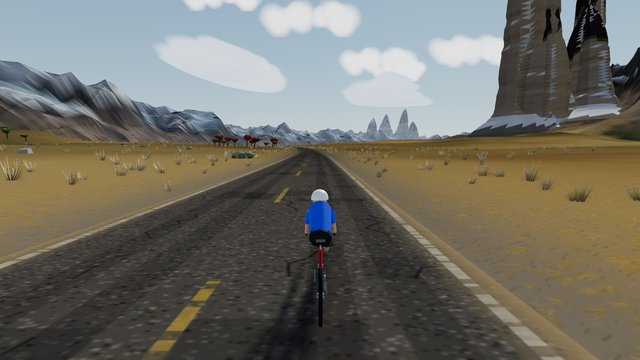
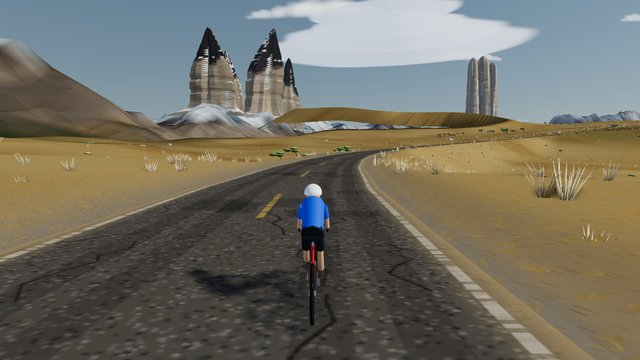
Patagonia polish: hero-scale towers, deeper sky, softer cumulus
Towers 1.4x taller and closer to the road with more groups all round, so
they fill the upper frame for most of the lap; deeper blue sky (lower sky
exposure, bluer haze, longer fog); flat-based, wind-stretched cumulus;
fewer horizontal snow bands (none on the block summit); refreshed thumbnail.

Claude-Session: https://claude.ai/code/session_01NjvqeRDDRuEg82aVLG5iD9

diff --git a/src/world/themes/patagonia.ts b/src/world/themes/patagonia.ts
@@ -183,7 +183,7 @@ function spireGeometry(s: SpireSpec, hi: boolean): THREE.BufferGeometry {
     if (s.kind === 'spire') prof = (1 - 0.38 * t) * (t > 0.84 ? Math.sqrt(Math.max(0, 1 - ((t - 0.84) / 0.16) ** 2)) : 1);
     else if (s.kind === 'horn') prof = Math.pow(Math.max(0, 1 - t), 0.7) * (1 + 0.12 * Math.sin(t * 8 + ph[0]));
     else prof = (1 - 0.15 * t) * (t > 0.72 ? Math.pow(Math.max(0, 1 - ((t - 0.72) / 0.28) ** 3), 0.5) : 1);
-    const flare = 1 + 0.75 * Math.pow(1 - smooth(0, 0.2, t), 2);
+    const flare = 1 + 0.5 * Math.pow(1 - smooth(0, 0.16, t), 2);
     let ledge = 1;
     if (s.kind !== 'block') for (const lh of ledgeH) ledge -= 0.05 * smooth(lh, lh + 0.012, t) * (1 - smooth(lh + 0.04, lh + 0.06, t));
     const cx = s.lean * s.H * t * t;
@@ -241,7 +241,7 @@ function spireGeometry(s: SpireSpec, hi: boolean): THREE.BufferGeometry {
     }
     if (t < 0.12) c.lerp(SCREE, smooth(0.12, 0.04, t));
     let snow = 0;
-    if (ny > 0.58 && t > 0.06) snow = 1;
+    if (ny > (s.kind === 'block' && t < 0.86 ? 0.85 : 0.7) && t > 0.06) snow = 1;
     else if (g > 0.5 && t > 0.12 && t < 0.93) snow = v < 0.85 ? 1 : 0;
     else if (ny > 0.3 && t > 0.3 && v < 0.3) snow = 0.85;
     if (s.kind === 'block' && t > 0.86 && ny > 0.15) snow = 1;
@@ -384,12 +384,12 @@ function lenticularMaterial(haze: THREE.Color) {
         float str = 0.94 + 0.06 * pgNoise(vec2(vLocal.x * 2.0, vLocal.z * 26.0 + fxTime * 0.03));
         vec3 N = normalize(vN);
         float lit = 0.62 + 0.38 * clamp(N.y * 0.8 + 0.2, 0.0, 1.0) + 0.35 * max(dot(N, uSun), 0.0);
-        vec3 under = vec3(0.62, 0.68, 0.78);
+        vec3 under = vec3(0.5, 0.56, 0.67);
         vec3 top = vec3(1.25, 1.22, 1.18);
         vec3 col = mix(under, top, clamp(lit - 0.45, 0.0, 1.0)) * str;
         float dist = length(cameraPosition - vWorld);
         col = mix(col, uHaze, smoothstep(2000.0, 14000.0, dist) * 0.6);
-        gl_FragColor = vec4(col, a * 0.92);
+        gl_FragColor = vec4(col, a * 0.85);
         #include <tonemapping_fragment>
         #include <colorspace_fragment>
       }`,
@@ -419,7 +419,7 @@ export function buildPatagonia(route: Route, opts: ThemeBuildOptions): THREE.Obj
   const inward = L.inward;
   const out: THREE.Object3D[] = [];
   const hi = opts.high;
-  const haze = new THREE.Color('#b4cbe4');
+  const haze = new THREE.Color('#a6c1e2');
 
   // --- road radius from the centre, binned by angle (inner and outer envelopes)
   const BINS = 360;
@@ -594,7 +594,8 @@ export function buildPatagonia(route: Route, opts: ThemeBuildOptions): THREE.Obj
     /** back > 0: that far in from the inner edge of the road; back < 0: that far out beyond the outer edge. */
     const place = (ang: number, back: number, s: Omit<SpireSpec, 'seed'>) => {
       const rad = back > 0 ? Math.max(200, roadInner(ang) - back) : roadOuter(ang) - back;
-      specs.push({ s: { ...s, seed: seed++ }, x: L.cx + Math.cos(ang) * rad, z: L.cz + Math.sin(ang) * rad, rot: r() * Math.PI * 2, H: back > 0 ? massifH : outerH });
+      // everything at hero scale: tall enough to fill the upper half of the frame from the road
+      specs.push({ s: { ...s, H: s.H * 1.4, R: s.R * 1.1, seed: seed++ }, x: L.cx + Math.cos(ang) * rad, z: L.cz + Math.sin(ang) * rad, rot: r() * Math.PI * 2, H: back > 0 ? massifH : outerH });
     };
     const spread = (back: number) => 1 / (1 + Math.abs(back) / 4000);
     const towers = (ang: number, back: number, sgn: number) => {
@@ -620,17 +621,20 @@ export function buildPatagonia(route: Route, opts: ThemeBuildOptions): THREE.Obj
     };
     // inside the loop: the hero massif
     const a0 = r() * Math.PI * 2;
-    towers(a0, 1850, 1);
-    horns(a0 + 1.9, 1700, 1);
-    block(a0 + 3.6, 2300);
-    needles(a0 + 5.0, 1800, 1);
+    towers(a0, 1450, 1);
+    needles(a0 + 1.0, 1400, 1);
+    horns(a0 + 1.9, 1350, 1);
+    towers(a0 + 2.8, 1450, 1);
+    block(a0 + 3.6, 1900);
+    horns(a0 + 4.4, 1350, 1);
+    needles(a0 + 5.3, 1400, 1);
     // outside the loop: more groups all round, so one is usually ahead of the rider
-    const groups = [towers, horns, needles, towers, horns, needles];
+    const groups = [towers, horns, needles, towers, horns, needles, towers, horns];
     const b0 = r() * Math.PI * 2;
     groups.forEach((fn, k) => {
       const ang = b0 + ((k + (r() - 0.5) * 0.4) / groups.length) * Math.PI * 2;
-      if (k === 5) block(ang + 0.15, -2600);
-      fn(ang, -(2100 + r() * 500), -1);
+      if (k === 5) block(ang + 0.15, -2200);
+      fn(ang, -(1600 + r() * 400), -1);
     });
     const mat = new THREE.MeshLambertMaterial({ vertexColors: true, flatShading: true });
     for (const { s, x, z, rot, H } of specs) {
@@ -1037,37 +1041,65 @@ export function buildPatagonia(route: Route, opts: ThemeBuildOptions): THREE.Obj
     for (let k = 0; k < 3; k++) {
       const a = r() * Math.PI * 2;
       const d = 300 + r() * 1100;
-      stack(L.cx + Math.cos(a) * d, L.cz + Math.sin(a) * d, G0 + 2600 + r() * 300, 1200 + r() * 500, -WIND_YAW + (r() - 0.5) * 0.3);
+      stack(L.cx + Math.cos(a) * d, L.cz + Math.sin(a) * d, G0 + 3000 + r() * 300, 1300 + r() * 500, -WIND_YAW + (r() - 0.5) * 0.3);
     }
     for (let k = 0; k < 6; k++) {
       const a = ((k + r() * 0.6) / 6) * Math.PI * 2;
       const d = rOut[binOf(a)] + 4300 + r() * 1500;
-      stack(L.cx + Math.cos(a) * d, L.cz + Math.sin(a) * d, G0 + 2150 + r() * 400, 1600 + r() * 700, -WIND_YAW + (r() - 0.5) * 0.3);
+      stack(L.cx + Math.cos(a) * d, L.cz + Math.sin(a) * d, G0 + 2700 + r() * 400, 1700 + r() * 700, -WIND_YAW + (r() - 0.5) * 0.3);
     }
   }
 
   // --- fair-weather cumulus, kept well above the summits (the shared clouds would sit among the towers)
   {
+    // wind-stretched cumulus: soft billowy tops over a flat, grey-shaded base
+    const W = 512;
+    const Hh = 128;
+    const BASE = 92;
     const tex = canvasTex(
-      256,
-      128,
+      W,
+      Hh,
       (g) => {
         const cr = rng(21);
-        for (let k = 0; k < 26; k++) {
-          const x = 40 + cr() * 176;
-          const y = 50 + cr() * 40 - Math.sin(((x - 40) / 176) * Math.PI) * 22;
-          const rad = 14 + cr() * 26;
+        for (let k = 0; k < 70; k++) {
+          const u = cr();
+          const x = 40 + u * (W - 80);
+          const hump = Math.sin(u * Math.PI);
+          const rad = (10 + cr() * 22) * (0.5 + hump);
+          const y = BASE - rad * (0.3 + cr() * 0.5) - hump * 14;
           const gr = g.createRadialGradient(x, y, 0, x, y, rad);
-          gr.addColorStop(0, 'rgba(255,255,255,0.9)');
-          gr.addColorStop(0.6, 'rgba(250,252,255,0.55)');
-          gr.addColorStop(1, 'rgba(240,244,250,0)');
+          gr.addColorStop(0, 'rgba(255,255,255,0.5)');
+          gr.addColorStop(0.5, 'rgba(250,252,255,0.3)');
+          gr.addColorStop(1, 'rgba(245,248,252,0)');
           g.fillStyle = gr;
-          g.fillRect(0, 0, 256, 128);
+          g.beginPath();
+          g.ellipse(x, y, rad * 1.6, rad, 0, 0, Math.PI * 2);
+          g.fill();
         }
-        // flat bases
+        // shade the underside grey-blue, then fade the flat base out
+        g.globalCompositeOperation = 'source-atop';
+        const sh = g.createLinearGradient(0, BASE - 40, 0, BASE);
+        sh.addColorStop(0, 'rgba(150,165,190,0)');
+        sh.addColorStop(1, 'rgba(150,165,190,0.55)');
+        g.fillStyle = sh;
+        g.fillRect(0, 0, W, Hh);
         g.globalCompositeOperation = 'destination-out';
-        g.fillStyle = 'rgba(0,0,0,1)';
-        g.fillRect(0, 100, 256, 28);
+        const cut = g.createLinearGradient(0, BASE - 4, 0, BASE + 6);
+        cut.addColorStop(0, 'rgba(0,0,0,0)');
+        cut.addColorStop(1, 'rgba(0,0,0,1)');
+        g.fillStyle = cut;
+        g.fillRect(0, BASE - 4, W, Hh);
+        // soft ends
+        for (const [x0, x1] of [
+          [0, 60],
+          [W, W - 60],
+        ]) {
+          const e = g.createLinearGradient(x0, 0, x1, 0);
+          e.addColorStop(0, 'rgba(0,0,0,1)');
+          e.addColorStop(1, 'rgba(0,0,0,0)');
+          g.fillStyle = e;
+          g.fillRect(Math.min(x0, x1), 0, 60, Hh);
+        }
       },
       false,
     );
@@ -1076,9 +1108,9 @@ export function buildPatagonia(route: Route, opts: ThemeBuildOptions): THREE.Obj
       const sp = new THREE.Sprite(mat);
       const a = r() * Math.PI * 2;
       const d = 1500 + r() * 8000;
-      sp.position.set(L.cx + Math.cos(a) * d, G0 + 2350 + r() * 900, L.cz + Math.sin(a) * d);
-      const sc = 600 + r() * 900;
-      sp.scale.set(sc * 2, sc, 1);
+      sp.position.set(L.cx + Math.cos(a) * d, G0 + 2800 + r() * 900, L.cz + Math.sin(a) * d);
+      const sc = 450 + r() * 600;
+      sp.scale.set(sc * (4.5 + r() * 2), sc, 1);
       sp.name = 'cumulus';
       out.push(sp);
     }

diff --git a/src/world/themes/index.ts b/src/world/themes/index.ts
@@ -317,9 +317,9 @@ const PATAGONIA: Theme = {
   id: 'patagonia',
   skyTop: '#1f5fc8',
   skyHorizon: '#b8d0e6',
-  haze: '#b4cbe4',
+  haze: '#a6c1e2',
   fogNear: 500,
-  fogFar: 22000,
+  fogFar: 30000,
   hemiSky: '#d6e5ff',
   hemiGround: '#a58d5a',
   hemiIntensity: 0.85,
@@ -332,7 +332,7 @@ const PATAGONIA: Theme = {
   roadTexture: patagoniaRoad,
   // crisp, clear austral light: deep blue scattering sky, sun about 35 degrees up
   sun: PATAGONIA_SUN,
-  sky: { turbidity: 1.0, rayleigh: 2.0, mieCoefficient: 0.001, mieDirectionalG: 0.75, exposure: 0.24 },
+  sky: { turbidity: 1.0, rayleigh: 2.0, mieCoefficient: 0.001, mieDirectionalG: 0.75, exposure: 0.17 },
   cloudShadows: 0.55,
   posts: false,
 };
